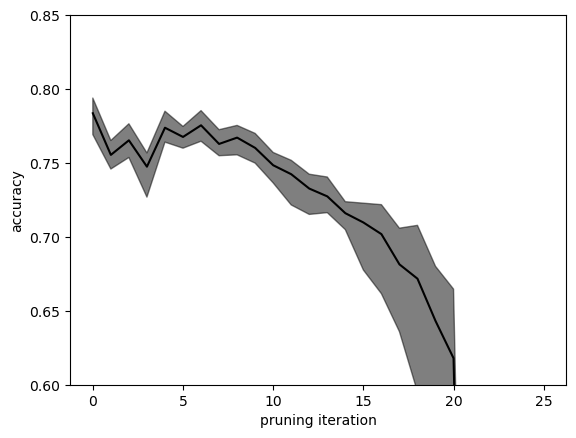
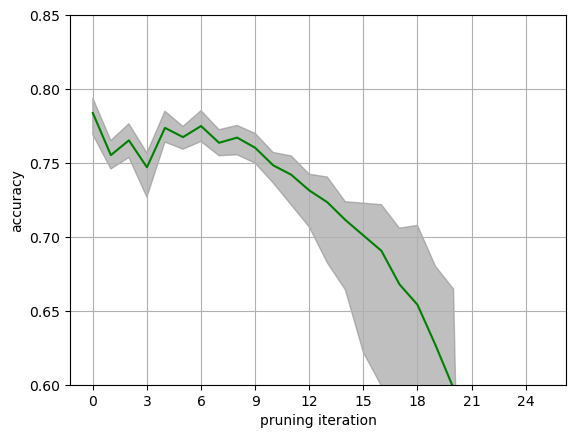
Upd: Elimnated differences between LTH visualization and mine

diff --git a/PyCharm/main.py b/PyCharm/main.py
@@ -38,8 +38,8 @@ def main():
     task_description = 'Reproduction'
     # task_description = 'Early-Tickets'
 
-    architecture_description = 'CIFAR10-CNN-6'
-    # architecture_description = 'MNIST-Lenet-FCN'
+    # architecture_description = 'CIFAR10-CNN-6'
+    architecture_description = 'MNIST-Lenet-FCN'
     # Only compatible with 'Transfer'
     # architecture_description = 'Newsgroups-End2End-CNN'
 
@@ -134,9 +134,11 @@ def main():
         # epoch 10 (Reproduction-MNIST-Lenet-FCN)
         # epoch 5 (Reproduction-CIFAR10-CNN-6)
         # epoch 3 (Transfer-20Newsgroups-End2EndCNN)
-        no_epochs_to_estimated_convergence = 10
+        no_epochs_to_estimated_convergence = 5
         # Limits of the axis for the experiment:
-        y_limits = (0.6, 0.85)
+        # y_limits = (0.6, 0.85)
+        y_limits = (0.9, 1.0)
+        # x_limits = (0, 18)
 
         # no_experiments_provided = 3
         average_over_multiple_experiments = False
@@ -264,21 +266,28 @@ def main():
                 """
                 vis_dicts = []
                 vis_names = []
+                # colors = ["royalblue", "darkorange", "green"]
+                colors = ["royalblue", "green", "crimson", "mediumpurple", "saddlebrown"]
                 vis_dicts.append(network_history_dicts[0])
                 vis_names.append(network_names[0])
-                vis_dicts.append(network_history_dicts[6])
-                vis_names.append(network_names[6])
+                #vis_dicts.append(network_history_dicts[3])
+                #vis_names.append(network_names[3])
+                vis_dicts.append(network_history_dicts[7])
+                vis_names.append(network_names[7])
                 vis_dicts.append(network_history_dicts[12])
                 vis_names.append(network_names[12])
                 vis_dicts.append(network_history_dicts[15])
                 vis_names.append(network_names[15])
                 vis_dicts.append(network_history_dicts[18])
                 vis_names.append(network_names[18])
+
                 visualization.plot_measure_over_n_trainings(
                     histories=vis_dicts,
                     history_names=vis_names,
                     measure_key=measure_key,
-                    y_limits=y_limits
+                    y_limits=y_limits,
+                    x_limits=x_limits,
+                    colors=colors
                 )
                 """
                 """

diff --git a/PyCharm/visualization.py b/PyCharm/visualization.py
@@ -8,18 +8,30 @@ import scipy.stats as stats
 
 
 def plot_measure_over_n_trainings(histories, history_names, measure_key,
-                                  y_limits=None, variable_name='epoch'):
+                                  y_limits=None, x_limits=None, colors=None,
+                                  variable_name='epoch'):
     epoch_count = range(1, len(histories[0][measure_key]) + 1)
 
     color = iter(plt.cm.rainbow(np.linspace(0, 1, len(histories))))
+    x_ticks = []
+    for i in epoch_count:
+        if (i % 5) == 0:
+            x_ticks.append(i)
     for idx, history in enumerate(histories):
-        c = next(color)
+        if colors:
+            c = colors[idx]
+        else:
+            c = next(color)
         measure = history[measure_key]
         plt.plot(epoch_count, measure, color=c)
 
-    plt.legend(history_names, bbox_to_anchor=(1.0, 1.0))
+    plt.legend(history_names, bbox_to_anchor=(1.5, 1.0))
+    plt.xticks(x_ticks)
     if y_limits:
         plt.ylim(y_limits)
+    if x_limits:
+        plt.xlim(x_limits)
+    plt.grid(True)
     plt.xlabel(variable_name)
     plt.ylabel(measure_key)
     plt.savefig("../LaTeX/gfx/Experiments/test.png",
@@ -181,8 +193,8 @@ def plot_average_measure_after_convergence(experiment_result, history_names, mea
         mean=means,
         lb=lower_bounds,
         ub=upper_bounds,
-        color_mean='black',
-        color_shading='black'
+        color_mean='crimson',
+        color_shading='grey'
     )
 
     # Configure legend
@@ -203,7 +215,17 @@ def plot_average_measure_after_convergence(experiment_result, history_names, mea
                bbox_to_anchor=(1.2, 1.0))
     '''
 
-    plt.ylim(y_limits)
+    x_ticks = []
+    for i in range(len(means)):
+        if (i % 5) == 0:
+            x_ticks.append(i)
+    plt.xticks(x_ticks)
+    if y_limits:
+        y_ticks = np.arange(y_limits[0], y_limits[1], 0.025)
+        y_ticks = np.append(y_ticks, y_limits[1])
+        plt.yticks(y_ticks)
+        plt.ylim(y_limits)
+    plt.grid(True)
     plt.xlabel(variable_name)
     plt.ylabel(measure_key)
     plt.savefig("../LaTeX/gfx/Experiments/test.png",
